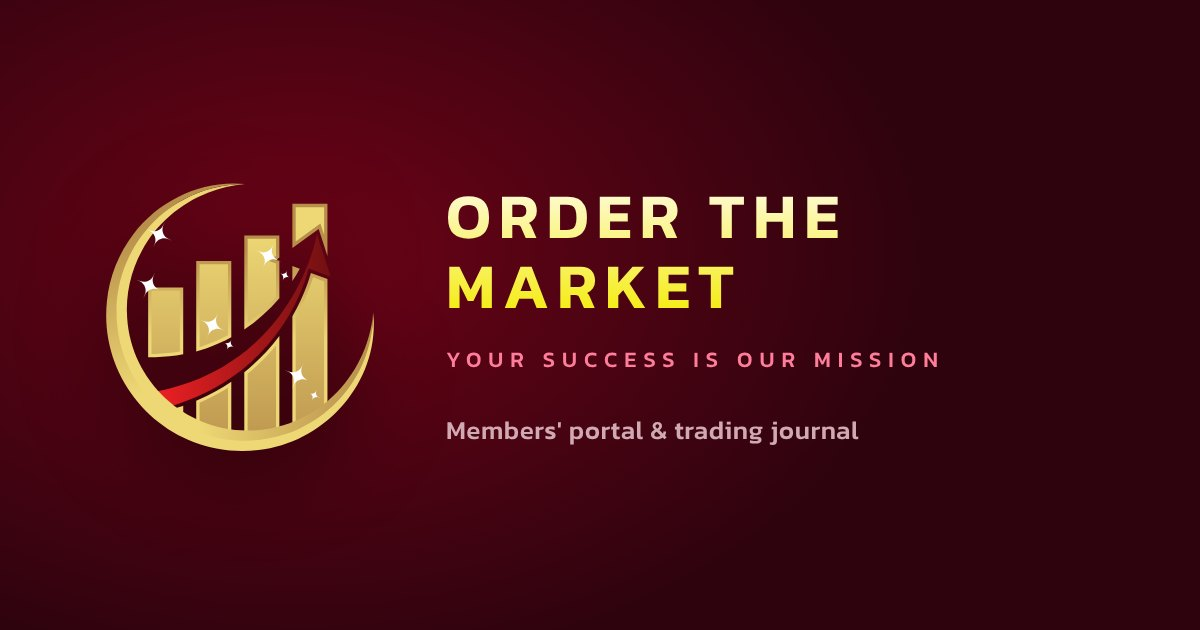
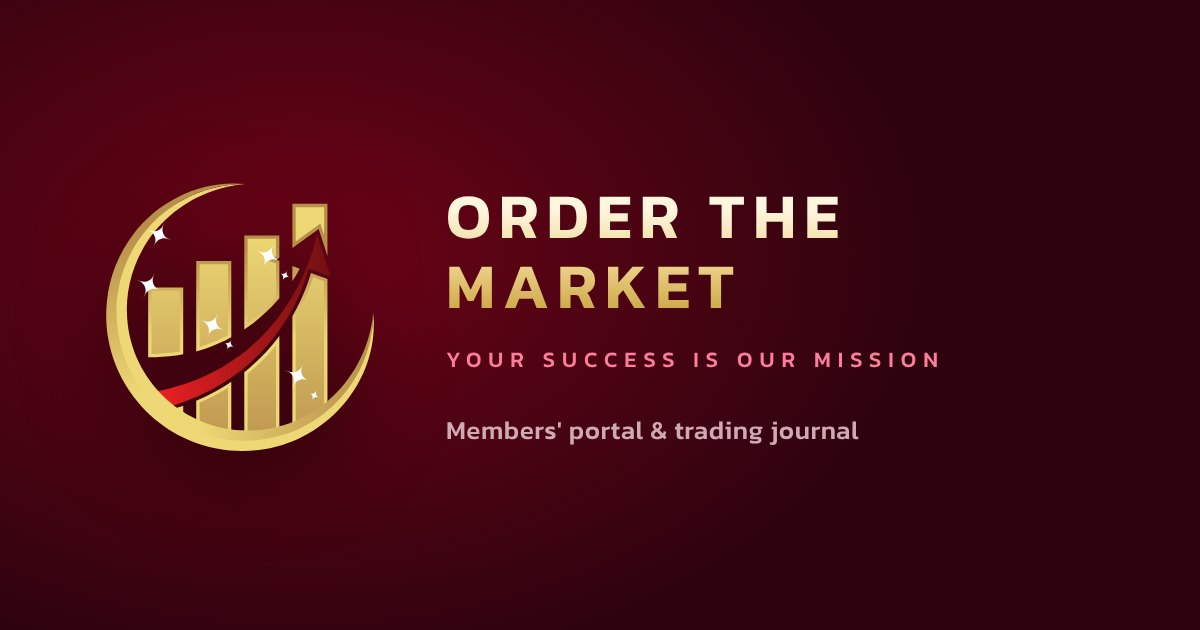
Tone the yellow to a softer gold and give the site a metallic finish
Accent moves from #F4EB06 to a warmer, dimmer gold (#DCB84A) that sits with the logo.
Cards become brushed crimson with a lit top edge and a light sweep on hover; buttons,
avatars and big figures are polished gold; red rules and bars get a polished pink-red
gradient. Charts, the hero arc and the share image follow.

Claude-Session: https://claude.ai/code/session_01UfufCew2iWNJoJS5dCwX33

Changed region(s): [[0.37, 0.3016, 0.7092, 0.3921], [0.37, 0.4222, 0.6167, 0.5127]]

diff --git a/website/css/style.css b/website/css/style.css
@@ -1,19 +1,19 @@
 /* Order The Market: one stylesheet for the public pages and the member portal. */
 
 :root {
-  /* palette from the owner: crimson #6D0317, pink-red #E52150, yellow #F4EB06 */
+  /* palette from the owner: crimson #6D0317, pink-red #E52150, yellow #F4EB06 toned to a softer gold, metallic finish */
   --bg: #2e030e;
   --bg-2: #240209;
   --surface: #400516;
   --surface-2: #6d0317;
   --text: #fcf2ee;
   --muted: #d0a9b2;
-  --accent: #f4eb06;
-  --accent-rgb: 244, 235, 6;
-  --accent-hi: #f8f264;
+  --accent: #dcb84a;
+  --accent-rgb: 220, 184, 74;
+  --accent-hi: #f0d68c;
   --accent-2: #e52150;
   --accent-2-rgb: 229, 33, 80;
-  --gold-deep: #d6c500;
+  --gold-deep: #a8832c;
   --gold-mid: #ff7d9b;
   --line: #64162c;
   --profit: #7bd394;
@@ -517,3 +517,58 @@ textarea.input { min-height: 90px; resize: vertical; line-height: 1.6; }
   *, *::before, *::after { animation: none !important; transition: none !important; }
   .js-ready .reveal { opacity: 1; transform: none; }
 }
+
+/* ------------------------------------------------------------------ metal finish
+   Owner's direction: gold rather than bright yellow, and red with a polished-metal sheen.
+   Cards are brushed crimson with a lit top edge; gold buttons and key figures are polished gold. */
+:root {
+  --metal-red: linear-gradient(160deg, rgba(255, 255, 255, .075) 0%, rgba(255, 255, 255, 0) 30%),
+               linear-gradient(150deg, #5c0a20 0%, #3d0515 42%, #31040f 64%, #4c0719 100%);
+  --metal-red-hi: linear-gradient(160deg, rgba(255, 220, 228, .13) 0%, rgba(255, 255, 255, 0) 34%),
+                  linear-gradient(150deg, #8a0f2b 0%, #6d0317 40%, #4a0517 70%, #7a0b25 100%);
+  --metal-red-line: linear-gradient(90deg, #7d0a22, #e52150 34%, #ff9fb4 48%, #c81a43 62%, #7d0a22);
+  --metal-gold: linear-gradient(180deg, rgba(255, 255, 255, .34), rgba(255, 255, 255, 0) 50%),
+                linear-gradient(100deg, #a8832c 0%, #e6c76e 20%, #f6e4a6 32%, #d2ab42 50%, #b38b2d 68%, #e8cb76 86%, #a8832c 100%);
+  --metal-gold-text: linear-gradient(180deg, #f8e9b4 8%, #dcb84a 56%, #a8832c 100%);
+  --metal-edge: inset 0 1px 0 rgba(255, 196, 208, .16), inset 0 -1px 0 rgba(0, 0, 0, .35);
+}
+
+.card, .broker, .calc, .feature-sm, .modal__box {
+  background: var(--metal-red);
+  border-color: rgba(var(--accent-2-rgb), .24);
+  box-shadow: var(--metal-edge), 0 16px 40px rgba(0, 0, 0, .28);
+}
+.kpi--hero, .feature-main, .toast, .me {
+  background: var(--metal-red-hi);
+  box-shadow: var(--metal-edge), 0 18px 44px rgba(0, 0, 0, .3);
+}
+
+/* a slow light sweep across the landing cards on hover, like light moving over polished metal */
+.broker, .calc { position: relative; overflow: hidden; }
+.broker::after, .calc::after {
+  content: ""; position: absolute; inset: -40% auto -40% -60%; width: 45%; pointer-events: none;
+  background: linear-gradient(100deg, transparent, rgba(255, 210, 220, .10) 45%, rgba(255, 255, 255, .16) 50%, rgba(255, 210, 220, .08) 55%, transparent);
+  transform: translateX(0) rotate(8deg); opacity: 0; transition: transform 1.1s var(--ease), opacity .4s;
+}
+.broker:hover::after, .calc:hover::after { transform: translateX(420%) rotate(8deg); opacity: 1; }
+.broker > :not(.sr-only), .calc > * { position: relative; z-index: 1; }
+
+/* polished gold buttons */
+.btn--gold {
+  background: var(--metal-gold); color: #3d0010; border: 1px solid rgba(120, 82, 10, .55);
+  box-shadow: inset 0 1px 0 rgba(255, 255, 255, .55), inset 0 -1px 0 rgba(90, 50, 0, .35), 0 8px 24px rgba(0, 0, 0, .32);
+  text-shadow: 0 1px 0 rgba(255, 240, 200, .45);
+}
+.btn--gold:hover { color: #3d0010; filter: brightness(1.07) saturate(1.05); }
+.avatar { background: var(--metal-gold); box-shadow: inset 0 1px 0 rgba(255, 255, 255, .5); }
+
+/* key figures in polished gold */
+.hero h1 { background: linear-gradient(180deg, #fff6e0 28%, #ecd28a 62%, #c89f3a 100%); -webkit-background-clip: text; background-clip: text; color: transparent; }
+.calc__bal, .bonus__cell:first-child .bonus__pct {
+  background: var(--metal-gold-text); -webkit-background-clip: text; background-clip: text; color: transparent;
+}
+
+/* polished red rules and bars */
+.step { border-top: 0; }
+.step::after { content: ""; position: absolute; left: 0; right: 0; top: 0; height: 2px; background: var(--metal-red-line); }
+.progress i, .hours__row.is-open .hours__seg { background: linear-gradient(90deg, #8a0f2b, #e52150 30%, #ff9fb4 44%, #d43a5c 56%, var(--accent)); }

diff --git a/website/js/charts.js b/website/js/charts.js
@@ -12,7 +12,7 @@
     const v = Math.max(0, Math.min(100, score));
     const id = "g" + ++gid;
     return `<svg class="gauge" viewBox="0 0 180 160" role="img" aria-label="${esc(label)} ${v}">
-      <defs><linearGradient id="${id}" x1="0" y1="1" x2="1" y2="0"><stop offset="0" stop-color="#E52150"/><stop offset="1" stop-color="#F4EB06"/></linearGradient></defs>
+      <defs><linearGradient id="${id}" x1="0" y1="1" x2="1" y2="0"><stop offset="0" stop-color="#E52150"/><stop offset=".55" stop-color="#F0D68C"/><stop offset="1" stop-color="#C89F3A"/></linearGradient></defs>
       <path d="${arc(a0, a1)}" fill="none" stroke="var(--line)" stroke-width="10" stroke-linecap="round"/>
       ${v > 0 ? `<path class="gauge__val" d="${arc(a0, a0 + (a1 - a0) * (v / 100))}" fill="none" stroke="url(#${id})" stroke-width="10" stroke-linecap="round"/>` : ""}
       <text x="90" y="98" text-anchor="middle" class="gauge__num">${v}</text>
@@ -34,7 +34,7 @@
     return `<svg class="radar" viewBox="-104 -6 508 248" role="img" aria-label="radar">
       ${[25, 50, 75, 100].map((v) => `<polygon points="${ring(v)}" fill="none" stroke="var(--line)" stroke-width="1"/>`).join("")}
       ${keys.map((_, i) => { const [x, y] = pt(i, 100); return `<line x1="${cx}" y1="${cy}" x2="${x.toFixed(1)}" y2="${y.toFixed(1)}" stroke="var(--line)"/>`; }).join("")}
-      <polygon points="${shape}" fill="rgba(244,235,6,.2)" stroke="#F4EB06" stroke-width="2" stroke-linejoin="round"/>
+      <polygon points="${shape}" fill="rgba(220,184,74,.2)" stroke="#DCB84A" stroke-width="2" stroke-linejoin="round"/>
       ${lbl}
     </svg>`;
   }
@@ -52,10 +52,10 @@
     const ticks = [max, (max + min) / 2, min].map((v) => `<text x="${P.l - 8}" y="${(Y(v) + 4).toFixed(1)}" text-anchor="end" class="axis">${esc(opts.fmt ? opts.fmt(v) : v.toFixed(0))}</text><line x1="${P.l}" x2="${W - P.r}" y1="${Y(v).toFixed(1)}" y2="${Y(v).toFixed(1)}" stroke="var(--line)" stroke-dasharray="${v === 0 ? "" : "3 5"}"/>`).join("");
     const dl = (i) => opts.dateFmt ? opts.dateFmt(points[i].x) : "";
     return `<svg class="linechart" viewBox="0 0 ${W} ${H}" role="img" aria-label="${esc(opts.label || "chart")}">
-      <defs><linearGradient id="${id}" x1="0" y1="0" x2="0" y2="1"><stop offset="0" stop-color="#F4EB06" stop-opacity=".32"/><stop offset="1" stop-color="#F4EB06" stop-opacity="0"/></linearGradient></defs>
+      <defs><linearGradient id="${id}" x1="0" y1="0" x2="0" y2="1"><stop offset="0" stop-color="#DCB84A" stop-opacity=".32"/><stop offset="1" stop-color="#DCB84A" stop-opacity="0"/></linearGradient></defs>
       ${ticks}
       <path d="${area}" fill="url(#${id})"/>
-      <path d="${d}" fill="none" stroke="#F4EB06" stroke-width="2.5" stroke-linejoin="round"/>
+      <path d="${d}" fill="none" stroke="#DCB84A" stroke-width="2.5" stroke-linejoin="round"/>
       <text x="${P.l}" y="${H - 6}" class="axis">${esc(dl(0))}</text>
       <text x="${W - P.r}" y="${H - 6}" text-anchor="end" class="axis">${esc(dl(points.length - 1))}</text>
     </svg>`;

diff --git a/website/index.html b/website/index.html
@@ -56,7 +56,7 @@
         <div class="orbit" aria-hidden="true">
           <div class="orbit__ring orbit__ring--1"></div>
           <div class="orbit__ring orbit__ring--2"></div>
-          <svg class="orbit__arc" viewBox="0 0 100 100"><defs><linearGradient id="arcg" x1="0" y1="1" x2="1" y2="0"><stop offset="0" stop-color="#E52150" stop-opacity="0"/><stop offset=".6" stop-color="#E52150"/><stop offset="1" stop-color="#F4EB06"/></linearGradient></defs><path d="M10 62 A41 41 0 0 1 72 13" fill="none" stroke="url(#arcg)" stroke-width="1.1" stroke-linecap="round"/><circle cx="72" cy="13" r="1.4" fill="#F4EB06"/></svg>
+          <svg class="orbit__arc" viewBox="0 0 100 100"><defs><linearGradient id="arcg" x1="0" y1="1" x2="1" y2="0"><stop offset="0" stop-color="#E52150" stop-opacity="0"/><stop offset=".6" stop-color="#E52150"/><stop offset="1" stop-color="#F0D68C"/></linearGradient></defs><path d="M10 62 A41 41 0 0 1 72 13" fill="none" stroke="url(#arcg)" stroke-width="1.1" stroke-linecap="round"/><circle cx="72" cy="13" r="1.4" fill="#F0D68C"/></svg>
           <div class="orbit__glow"></div>
           <img class="orbit__mark" src="assets/img/mark.svg" alt="" width="260" height="260">
         </div>

diff --git a/copy/brand-kit.md b/copy/brand-kit.md
@@ -44,12 +44,19 @@ The logo artwork keeps its own gold and maroon (see `brand/README.md`); it is ne
 | surface-2 | `#6D0317` | owner's crimson: hero glow, raised cards, active nav |
 | text | `#FCF2EE` | body text |
 | muted | `#D0A9B2` | labels, secondary text (tinted toward the crimson) |
-| accent | `#F4EB06` | owner's yellow: CTAs, active states, key numbers. Solid only: at low opacity over crimson it turns olive |
-| accent-hi | `#F8F264` | lighter yellow for button gradients and big figures |
+| accent | `#DCB84A` | owner's yellow `#F4EB06` toned to a softer gold at their request: CTAs, active states, key numbers. Solid only: at low opacity over crimson it turns olive |
+| accent-hi | `#F0D68C` | light gold for highlights in the metal gradients |
+| gold-deep | `#A8832C` | shadow gold for the metal gradients and focus borders |
 | accent-2 | `#E52150` | owner's pink-red: borders, soft tints, glows, gradient start (pink-red → yellow) |
 | gold-mid | `#FF7D9B` | small labels and kickers (a lighter pink-red that stays readable) |
 | line | `#64162C` | dividers |
 | profit / loss | `#7BD394` / `#FF6B5E` | P/L only |
+
+**Finish (owner's request): metallic.** Cards are brushed crimson (a dark-to-crimson gradient with a lit
+top edge) and get a slow light sweep on hover on the landing page. Buttons, avatars and big figures are
+polished gold (multi-stop gold gradient with a highlight band). Red rules and bars use a polished
+pink-red gradient. The tokens are `--metal-red`, `--metal-red-hi`, `--metal-gold`, `--metal-gold-text`
+and `--metal-red-line` in `website/css/style.css`.
 
 - **Heading font:** Kanit (Thai + Latin), 500/600; wordmark-style headings use wide letter-spacing
   in caps like the logo.

diff --git a/CLAUDE.md b/CLAUDE.md
@@ -8,7 +8,7 @@ our mission". The logo files and palette are in `brand/` (see
 `brand/README.md`): maroon `#420000`, golds `#F4DC88` / `#EED875` / `#CEAC5C`
 / `#B78E4A`, red arrow `#ED2024` → `#721011`. Those are the logo's own colours;
 the owner later chose the site colours crimson `#6D0317`, pink-red `#E52150` and
-yellow `#F4EB06`, which `copy/brand-kit.md` now records and the site uses. When writing
+yellow `#F4EB06` (toned to a softer gold, with a metallic finish), which `copy/brand-kit.md` now records and the site uses. When writing
 `copy/brand-kit.md`, take the name, slogan, palette and logo from there
 instead of asking or inventing them, and treat the logo as the viewer's own
 media (copy what the site needs from `brand/logo/`; prefer
